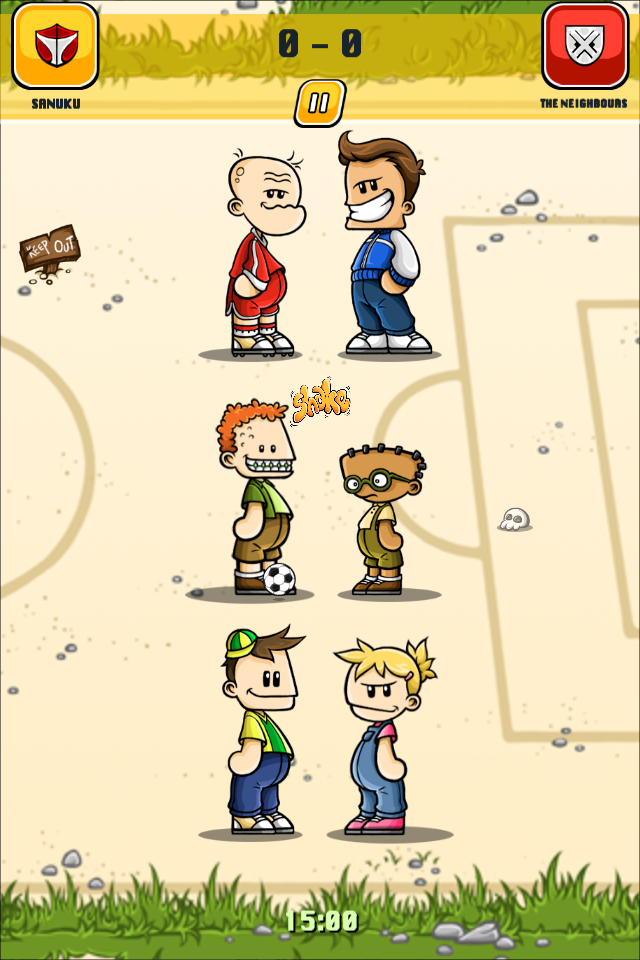
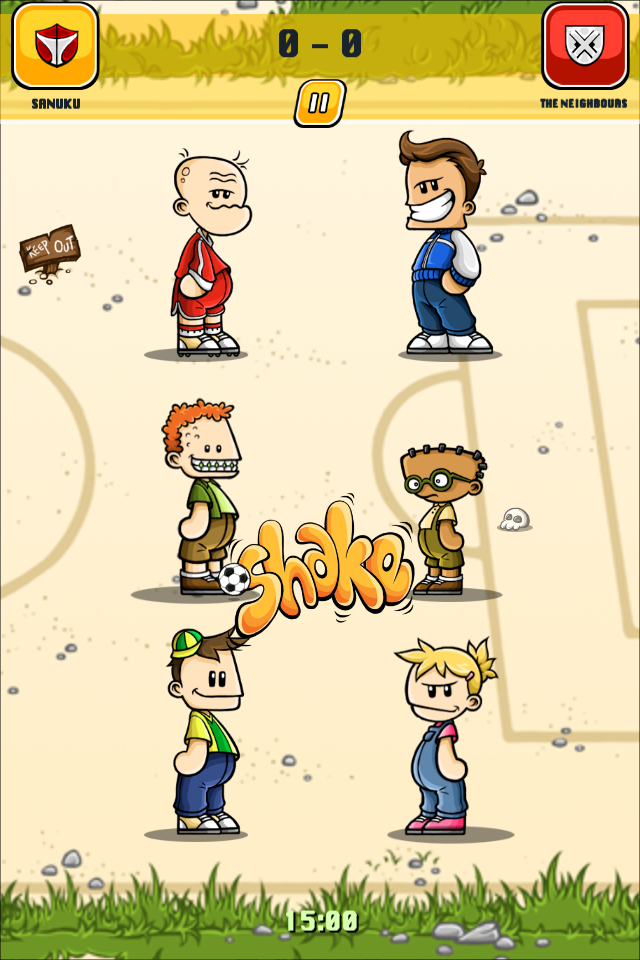
Fix PAIR animation bug, enlarge and center SHAKE prompt, calibrate player proportions and add full-screen display toggle

Changed region(s): [[0.1875, 0.375, 0.8125, 0.9062], [0.5312, 0.125, 0.7812, 0.375], [0.2188, 0.1562, 0.5, 0.375]]

diff --git a/Assets/Scripts/DiceSoccerBootstrap.cs b/Assets/Scripts/DiceSoccerBootstrap.cs
@@ -41,6 +41,8 @@ namespace DiceSoccer
         private GameObject[] _awayDieRoots;
         private Image[] _homePlayers;
         private Image[] _awayPlayers;
+        private float[] _homePlayerScales;
+        private float[] _awayPlayerScales;
         private Image _ballMarker;
         private Transform _field;
         private RectTransform _fieldPitchRoot;
@@ -158,9 +160,15 @@ namespace DiceSoccer
                 for (var i = 0; i < _homePlayers.Length; i++)
                 {
                     if (_homePlayers[i] != null && _homePlayers[i].gameObject.activeSelf)
-                        _homePlayers[i].rectTransform.localScale = new Vector3(-1f, bob, 1f); // Home faces right towards opponent
+                    {
+                        float baseScale = (_homePlayerScales != null && i < _homePlayerScales.Length) ? _homePlayerScales[i] : 1f;
+                        _homePlayers[i].rectTransform.localScale = new Vector3(-baseScale, baseScale * bob, 1f); // Home faces right towards opponent
+                    }
                     if (_awayPlayers[i] != null && _awayPlayers[i].gameObject.activeSelf)
-                        _awayPlayers[i].rectTransform.localScale = new Vector3(1f, bob, 1f); // Away faces left towards home
+                    {
+                        float baseScale = (_awayPlayerScales != null && i < _awayPlayerScales.Length) ? _awayPlayerScales[i] : 1f;
+                        _awayPlayers[i].rectTransform.localScale = new Vector3(baseScale, baseScale * bob, 1f); // Away faces left towards home
+                    }
                 }
             }
 
@@ -338,26 +346,39 @@ namespace DiceSoccer
             AddMenuBackdrop();
             AddMenuHeader("OPTIONS", ShowHome);
 
-            AddText("AUDIO SETTINGS", _safeArea, 18, Ink,
-                new Vector2(0.1f, 0.72f), new Vector2(0.9f, 0.78f));
+            AddText("GAME SETTINGS", _safeArea, 18, Ink,
+                new Vector2(0.1f, 0.74f), new Vector2(0.9f, 0.80f));
             AddButton(_soundEnabled ? "SOUND: ON" : "SOUND: OFF", _safeArea, Gold,
-                new Vector2(0.5f, 0.65f), new Vector2(0.75f, 0.08f), ToggleSound);
+                new Vector2(0.5f, 0.67f), new Vector2(0.75f, 0.07f), ToggleSound);
+
+            bool fullScreen = PlayerPrefs.GetInt("diceSoccer.fullscreen", 0) == 1;
+            AddButton(fullScreen ? "DISPLAY: FILL SCREEN" : "DISPLAY: CLASSIC 2:3", _safeArea, new Color32(50, 120, 180, 255),
+                new Vector2(0.5f, 0.58f), new Vector2(0.75f, 0.07f), ToggleDisplayMode);
 
             AddButton("★ UNLOCK EVERYTHING FREE", _safeArea, Grass,
-                new Vector2(0.5f, 0.52f), new Vector2(0.75f, 0.08f), () =>
+                new Vector2(0.5f, 0.48f), new Vector2(0.75f, 0.07f), () =>
                 {
                     UnlockAllContent(false);
                     ShowDonationModal();
                 });
 
             AddButton("☕ BUY A COFFEE (PAYPAL)", _safeArea, new Color32(0, 112, 186, 255),
-                new Vector2(0.5f, 0.40f), new Vector2(0.75f, 0.08f), ShowDonationModal);
+                new Vector2(0.5f, 0.38f), new Vector2(0.75f, 0.07f), ShowDonationModal);
 
             AddText("SHAKE OR TAP THE SCREEN EDGE TO ROLL\n100% FREE FAN REMASTER — NO ADS",
-                _safeArea, 13, Ink, new Vector2(0.08f, 0.22f), new Vector2(0.92f, 0.34f));
+                _safeArea, 13, Ink, new Vector2(0.08f, 0.22f), new Vector2(0.92f, 0.32f));
 
             AddButton("BACK TO MENU", _safeArea, new Color32(68, 79, 84, 255),
                 new Vector2(0.5f, 0.12f), new Vector2(0.55f, 0.06f), ShowHome);
+        }
+
+        private void ToggleDisplayMode()
+        {
+            int current = PlayerPrefs.GetInt("diceSoccer.fullscreen", 0);
+            PlayerPrefs.SetInt("diceSoccer.fullscreen", current == 1 ? 0 : 1);
+            PlayerPrefs.Save();
+            ApplySafeArea();
+            ShowOptions();
         }
 
         private void ToggleSound()
@@ -944,8 +965,12 @@ namespace DiceSoccer
             _fieldPitchRoot = pitchRootGo.GetComponent<RectTransform>();
             _fieldPitchRoot.anchorMin = new Vector2(0.5f, 0.5f);
             _fieldPitchRoot.anchorMax = new Vector2(0.5f, 0.5f);
-            _fieldPitchRoot.sizeDelta = new Vector2(1920f, 960f);
-            _fieldPitchRoot.anchoredPosition = new Vector2(GetPitchOffsetForLocation(_match.Location), 0f);
+            float fieldPitchHeight = 960f;
+            if (_safeArea != null && _safeArea.rect.height > 960f)
+                fieldPitchHeight = _safeArea.rect.height;
+            float pitchScale = fieldPitchHeight / 960f;
+            _fieldPitchRoot.sizeDelta = new Vector2(1920f * pitchScale, fieldPitchHeight);
+            _fieldPitchRoot.anchoredPosition = new Vector2(GetPitchOffsetForLocation(_match.Location) * pitchScale, 0f);
 
             // Left half of pitch (goal on left, center circle on right):
             var leftFieldGo = new GameObject("FieldLeft", typeof(RectTransform), typeof(Image));
@@ -953,7 +978,7 @@ namespace DiceSoccer
             var leftRect = leftFieldGo.GetComponent<RectTransform>();
             leftRect.anchorMin = leftRect.anchorMax = new Vector2(0.5f, 0.5f);
             leftRect.pivot = new Vector2(1f, 0.5f);
-            leftRect.sizeDelta = new Vector2(960f, 960f);
+            leftRect.sizeDelta = new Vector2(fieldPitchHeight, fieldPitchHeight);
             leftRect.anchoredPosition = Vector2.zero;
             var leftImg = leftFieldGo.GetComponent<Image>();
             leftImg.sprite = GetUiSprite("Original/sprites/Season0Field2(1.1)/Field");
@@ -966,7 +991,7 @@ namespace DiceSoccer
             var rightRect = rightFieldGo.GetComponent<RectTransform>();
             rightRect.anchorMin = rightRect.anchorMax = new Vector2(0.5f, 0.5f);
             rightRect.pivot = new Vector2(1f, 0.5f);
-            rightRect.sizeDelta = new Vector2(960f, 960f);
+            rightRect.sizeDelta = new Vector2(fieldPitchHeight, fieldPitchHeight);
             rightRect.anchoredPosition = Vector2.zero;
             rightRect.localScale = new Vector3(-1f, 1f, 1f);
             var rightImg = rightFieldGo.GetComponent<Image>();
@@ -1093,10 +1118,10 @@ namespace DiceSoccer
             _buffBeltText.fontStyle = FontStyle.Bold;
             _buffBeltGo.SetActive(false);
 
-            // Shake button & prompt above soccer ball:
+            // Shake button & prompt in field center circle:
             _shakePrompt = AddResourceImage("ShakePrompt", "Original/sprites/Prompt1/Shake",
-                _field, new Vector2(0.5f, 0.58f), new Vector2(0.5f, 0.58f));
-            _shakePrompt.rectTransform.sizeDelta = new Vector2(165f, 95f);
+                _field, new Vector2(0.5f, 0.40f), new Vector2(0.5f, 0.40f));
+            _shakePrompt.rectTransform.sizeDelta = new Vector2(360f, 295f);
             _shakePrompt.preserveAspect = true;
             _shakePrompt.raycastTarget = true;
             var shakeBtn = _shakePrompt.gameObject.AddComponent<Button>();
@@ -3315,7 +3340,7 @@ namespace DiceSoccer
             else if (hasPair && _homeDieRoots != null && _homeDieRoots[0] != null)
             {
                 Vector2 burstPos = _homeDieRoots[0].GetComponent<RectTransform>().anchorMin;
-                yield return StartCoroutine(PlayAbilityBurst(burstPos, "Original/sprites/BuffTrigger1/Trigger2", "Pair Boost"));
+                yield return StartCoroutine(PlayAbilityBurst(burstPos, "Original/sprites/BuffTrigger1/Trigger2", null));
                 yield return new WaitForSeconds(0.85f);
             }
             else
@@ -3544,68 +3569,81 @@ namespace DiceSoccer
             containerRect.anchoredPosition = new Vector2(0f, 30f);
             burstContainer.transform.SetAsLastSibling();
 
-            // 1. Ray burst background (TriggerBurst01..09)
-            var rayGo = new GameObject("RayBurst", typeof(RectTransform), typeof(Image));
-            rayGo.transform.SetParent(burstContainer.transform, false);
-            var rayRect = rayGo.GetComponent<RectTransform>();
-            rayRect.sizeDelta = new Vector2(220f, 220f);
-            rayRect.anchoredPosition = Vector2.zero;
-            var rayImg = rayGo.GetComponent<Image>();
-            rayImg.preserveAspect = true;
-            rayImg.raycastTarget = false;
-
-            // 2. Trigger badge (e.g. Trigger21 "3*" or Trigger2 "PAIR!")
-            var badgeGo = new GameObject("TriggerBadge", typeof(RectTransform), typeof(Image));
-            badgeGo.transform.SetParent(burstContainer.transform, false);
-            var badgeRect = badgeGo.GetComponent<RectTransform>();
-            badgeRect.sizeDelta = new Vector2(160f, 130f);
-            badgeRect.anchoredPosition = new Vector2(0f, 10f);
-            var badgeImg = badgeGo.GetComponent<Image>();
-            badgeImg.sprite = GetUiSprite(triggerBadgePath);
-            badgeImg.preserveAspect = true;
-            badgeImg.raycastTarget = false;
-
-            // 3. Ribbon banner (e.g. AbilityName-Critical Striker)
-            Image ribbonImg = null;
-            if (!string.IsNullOrEmpty(abilityName))
+            try
             {
-                var ribbonGo = new GameObject("AbilityRibbon", typeof(RectTransform), typeof(Image));
-                ribbonGo.transform.SetParent(burstContainer.transform, false);
-                var ribbonRect = ribbonGo.GetComponent<RectTransform>();
-                ribbonRect.sizeDelta = new Vector2(240f, 48f);
-                ribbonRect.anchoredPosition = new Vector2(0f, -45f);
-                ribbonImg = ribbonGo.GetComponent<Image>();
-                ribbonImg.sprite = GetUiSprite($"Original/sprites/BuffTrigger/AbilityName-{abilityName}");
-                ribbonImg.preserveAspect = true;
-                ribbonImg.raycastTarget = false;
-            }
+                // 1. Ray burst background (TriggerBurst01..09)
+                var rayGo = new GameObject("RayBurst", typeof(RectTransform), typeof(Image));
+                rayGo.transform.SetParent(burstContainer.transform, false);
+                var rayRect = rayGo.GetComponent<RectTransform>();
+                rayRect.sizeDelta = new Vector2(220f, 220f);
+                rayRect.anchoredPosition = Vector2.zero;
+                var rayImg = rayGo.GetComponent<Image>();
+                rayImg.preserveAspect = true;
+                rayImg.raycastTarget = false;
 
-            // Animate ray burst cycling + badge punch
-            float elapsed = 0f;
-            const float duration = 0.65f;
-            while (elapsed < duration)
-            {
-                elapsed += Time.deltaTime;
-                float t = Mathf.Clamp01(elapsed / duration);
+                // 2. Trigger badge (e.g. Trigger21 "3*" or Trigger2 "PAIR!")
+                var badgeGo = new GameObject("TriggerBadge", typeof(RectTransform), typeof(Image));
+                badgeGo.transform.SetParent(burstContainer.transform, false);
+                var badgeRect = badgeGo.GetComponent<RectTransform>();
+                badgeRect.sizeDelta = new Vector2(160f, 130f);
+                badgeRect.anchoredPosition = new Vector2(0f, 10f);
+                var badgeImg = badgeGo.GetComponent<Image>();
+                var badgeSprite = TryGetUiSprite(triggerBadgePath);
+                if (badgeSprite != null) badgeImg.sprite = badgeSprite;
+                badgeImg.preserveAspect = true;
+                badgeImg.raycastTarget = false;
 
-                // Ray burst animation frames (TriggerBurst01..09)
-                int burstFrame = Mathf.Clamp((int)(t * 9f) + 1, 1, 9);
-                rayImg.sprite = GetUiSprite($"Original/sprites/BuffTrigger/TriggerBurst{burstFrame:00}");
-
-                // Badge scale punch
-                float badgeScale = 1f + Mathf.Sin(t * Mathf.PI) * 0.28f;
-                badgeRect.localScale = new Vector3(badgeScale, badgeScale, 1f);
-
-                if (ribbonImg != null)
+                // 3. Ribbon banner (e.g. AbilityName-Critical Striker)
+                Image ribbonImg = null;
+                if (!string.IsNullOrEmpty(abilityName))
                 {
-                    float ribbonScale = Mathf.Clamp01(t * 3f);
-                    ribbonImg.rectTransform.localScale = new Vector3(ribbonScale, ribbonScale, 1f);
+                    var ribbonSprite = TryGetUiSprite($"Original/sprites/BuffTrigger/AbilityName-{abilityName}")
+                                    ?? TryGetUiSprite($"Original/sprites/BuffTrigger1/AbilityName-{abilityName}");
+                    if (ribbonSprite != null)
+                    {
+                        var ribbonGo = new GameObject("AbilityRibbon", typeof(RectTransform), typeof(Image));
+                        ribbonGo.transform.SetParent(burstContainer.transform, false);
+                        var ribbonRect = ribbonGo.GetComponent<RectTransform>();
+                        ribbonRect.sizeDelta = new Vector2(240f, 48f);
+                        ribbonRect.anchoredPosition = new Vector2(0f, -45f);
+                        ribbonImg = ribbonGo.GetComponent<Image>();
+                        ribbonImg.sprite = ribbonSprite;
+                        ribbonImg.preserveAspect = true;
+                        ribbonImg.raycastTarget = false;
+                    }
                 }
 
-                yield return null;
-            }
+                // Animate ray burst cycling + badge punch
+                float elapsed = 0f;
+                const float duration = 0.65f;
+                while (elapsed < duration)
+                {
+                    elapsed += Time.deltaTime;
+                    float t = Mathf.Clamp01(elapsed / duration);
 
-            Destroy(burstContainer);
+                    // Ray burst animation frames (TriggerBurst01..09)
+                    int burstFrame = Mathf.Clamp((int)(t * 9f) + 1, 1, 9);
+                    var bSprite = TryGetUiSprite($"Original/sprites/BuffTrigger/TriggerBurst{burstFrame:00}");
+                    if (bSprite != null) rayImg.sprite = bSprite;
+
+                    // Badge scale punch
+                    float badgeScale = 1f + Mathf.Sin(t * Mathf.PI) * 0.28f;
+                    badgeRect.localScale = new Vector3(badgeScale, badgeScale, 1f);
+
+                    if (ribbonImg != null)
+                    {
+                        float ribbonScale = Mathf.Clamp01(t * 3f);
+                        ribbonImg.rectTransform.localScale = new Vector3(ribbonScale, ribbonScale, 1f);
+                    }
+
+                    yield return null;
+                }
+            }
+            finally
+            {
+                if (burstContainer != null)
+                    Destroy(burstContainer);
+            }
         }
 
         private IEnumerator PlayGoalAnimation(bool homeScored)
@@ -4851,8 +4889,10 @@ namespace DiceSoccer
 
         private IEnumerator SmoothShiftFieldAndBall(int fromLoc, int toLoc, int possession)
         {
-            var startPitchX = GetPitchOffsetForLocation(fromLoc);
-            var targetPitchX = GetPitchOffsetForLocation(toLoc);
+            float pitchScale = (_fieldPitchRoot != null && _fieldPitchRoot.sizeDelta.y > 960f)
+                ? _fieldPitchRoot.sizeDelta.y / 960f : 1f;
+            var startPitchX = GetPitchOffsetForLocation(fromLoc) * pitchScale;
+            var targetPitchX = GetPitchOffsetForLocation(toLoc) * pitchScale;
             var startBallPos = _ballMarker != null ? _ballMarker.rectTransform.anchorMin : GetBallPosition(fromLoc, possession);
             var targetBallPos = GetBallPosition(toLoc, possession, _match != null ? _match.BallHolderSlotIndex : 1);
             var elapsed = 0f;
@@ -5049,7 +5089,7 @@ namespace DiceSoccer
                 _ => 0.395f
             };
 
-            float x = possession == 0 ? 0.435f : 0.565f;
+            float x = possession == 0 ? 0.365f : 0.645f;
             return new Vector2(x, y);
         }
 
@@ -5130,6 +5170,7 @@ namespace DiceSoccer
         private Image[] AddFormationPlayers(PlayerData[] lineup, Transform parent, bool home)
         {
             var players = new Image[lineup.Length];
+            var scales = new float[lineup.Length];
 
             for (var slot = 0; slot < lineup.Length; slot++)
             {
@@ -5150,6 +5191,7 @@ namespace DiceSoccer
 
                 // Calibrate visual height so junior squad members stand uniformly alongside adult figures
                 float vScale = GetPlayerFigureVisualScale(pId);
+                scales[slot] = vScale;
                 player.rectTransform.localScale = new Vector3((home ? -1f : 1f) * vScale, vScale, 1f);
 
                 // Add shadow under player feet (1:1 overlay with 200x340 sprite)
@@ -5168,6 +5210,9 @@ namespace DiceSoccer
 
                 players[slot] = player;
             }
+
+            if (home) _homePlayerScales = scales;
+            else _awayPlayerScales = scales;
 
             return players;
         }
@@ -5196,10 +5241,10 @@ namespace DiceSoccer
                 var p = _homePlayers[slot];
                 p.gameObject.SetActive(true);
                 float y = activeHome.Length == 1 ? 0.38f : ys[i];
-                float x = activeHome.Length == 1 ? (loc == 2 ? 0.38f : 0.42f) : 0.395f;
+                float x = activeHome.Length == 1 ? (loc == 2 ? 0.38f : 0.42f) : 0.31f;
                 p.rectTransform.anchorMin = p.rectTransform.anchorMax = new Vector2(x, y);
                 p.rectTransform.anchoredPosition = Vector2.zero;
-                float currentScale = Mathf.Abs(p.rectTransform.localScale.y);
+                float currentScale = (_homePlayerScales != null && slot < _homePlayerScales.Length) ? _homePlayerScales[slot] : 1f;
                 p.rectTransform.localScale = new Vector3(-currentScale, currentScale, 1f);
             }
 
@@ -5210,10 +5255,10 @@ namespace DiceSoccer
                 var p = _awayPlayers[slot];
                 p.gameObject.SetActive(true);
                 float y = activeAway.Length == 1 ? 0.38f : ys[i];
-                float x = activeAway.Length == 1 ? (loc == 2 ? 0.58f : 0.62f) : 0.605f;
+                float x = activeAway.Length == 1 ? (loc == 2 ? 0.58f : 0.62f) : 0.70f;
                 p.rectTransform.anchorMin = p.rectTransform.anchorMax = new Vector2(x, y);
                 p.rectTransform.anchoredPosition = Vector2.zero;
-                float currentScale = Mathf.Abs(p.rectTransform.localScale.y);
+                float currentScale = (_awayPlayerScales != null && slot < _awayPlayerScales.Length) ? _awayPlayerScales[slot] : 1f;
                 p.rectTransform.localScale = new Vector3(currentScale, currentScale, 1f);
             }
 
@@ -5296,6 +5341,8 @@ namespace DiceSoccer
             _awayTotalText = null;
             _homeDieRoots = null;
             _awayDieRoots = null;
+            _homePlayerScales = null;
+            _awayPlayerScales = null;
         }
 
         private void ApplySafeArea()
@@ -5307,25 +5354,36 @@ namespace DiceSoccer
             float screenW = Screen.width;
             float screenH = Screen.height;
 
-            // Strict 2:3 aspect ratio letterboxing
-            const float targetAspect = ReferenceWidth / ReferenceHeight; // 640 / 960 = 2/3 = 0.666667f
-            float currentAspect = screenW / screenH;
+            bool fullScreen = PlayerPrefs.GetInt("diceSoccer.fullscreen", 0) == 1;
 
-            if (currentAspect < targetAspect)
+            if (fullScreen)
             {
-                // Screen is taller than 2:3 (modern phones) -> top/bottom letterbox bars
-                float viewportHeightFraction = currentAspect / targetAspect;
-                float marginY = (1f - viewportHeightFraction) * 0.5f;
-                _safeArea.anchorMin = new Vector2(0f, marginY);
-                _safeArea.anchorMax = new Vector2(1f, 1f - marginY);
+                // Edge-to-edge safe area: fills the screen while respecting hardware notch and nav bar
+                _safeArea.anchorMin = new Vector2(area.xMin / screenW, area.yMin / screenH);
+                _safeArea.anchorMax = new Vector2(area.xMax / screenW, area.yMax / screenH);
             }
             else
             {
-                // Screen is wider than 2:3 (tablets) -> left/right pillarbox bars
-                float viewportWidthFraction = targetAspect / currentAspect;
-                float marginX = (1f - viewportWidthFraction) * 0.5f;
-                _safeArea.anchorMin = new Vector2(marginX, 0f);
-                _safeArea.anchorMax = new Vector2(1f - marginX, 1f);
+                // Strict authentic 2:3 aspect ratio letterboxing
+                const float targetAspect = ReferenceWidth / ReferenceHeight; // 640 / 960 = 2/3 = 0.666667f
+                float currentAspect = screenW / screenH;
+
+                if (currentAspect < targetAspect)
+                {
+                    // Screen is taller than 2:3 (modern phones) -> top/bottom letterbox bars
+                    float viewportHeightFraction = currentAspect / targetAspect;
+                    float marginY = (1f - viewportHeightFraction) * 0.5f;
+                    _safeArea.anchorMin = new Vector2(0f, marginY);
+                    _safeArea.anchorMax = new Vector2(1f, 1f - marginY);
+                }
+                else
+                {
+                    // Screen is wider than 2:3 (tablets) -> left/right pillarbox bars
+                    float viewportWidthFraction = targetAspect / currentAspect;
+                    float marginX = (1f - viewportWidthFraction) * 0.5f;
+                    _safeArea.anchorMin = new Vector2(marginX, 0f);
+                    _safeArea.anchorMax = new Vector2(1f - marginX, 1f);
+                }
             }
 
             _safeArea.offsetMin = Vector2.zero;
